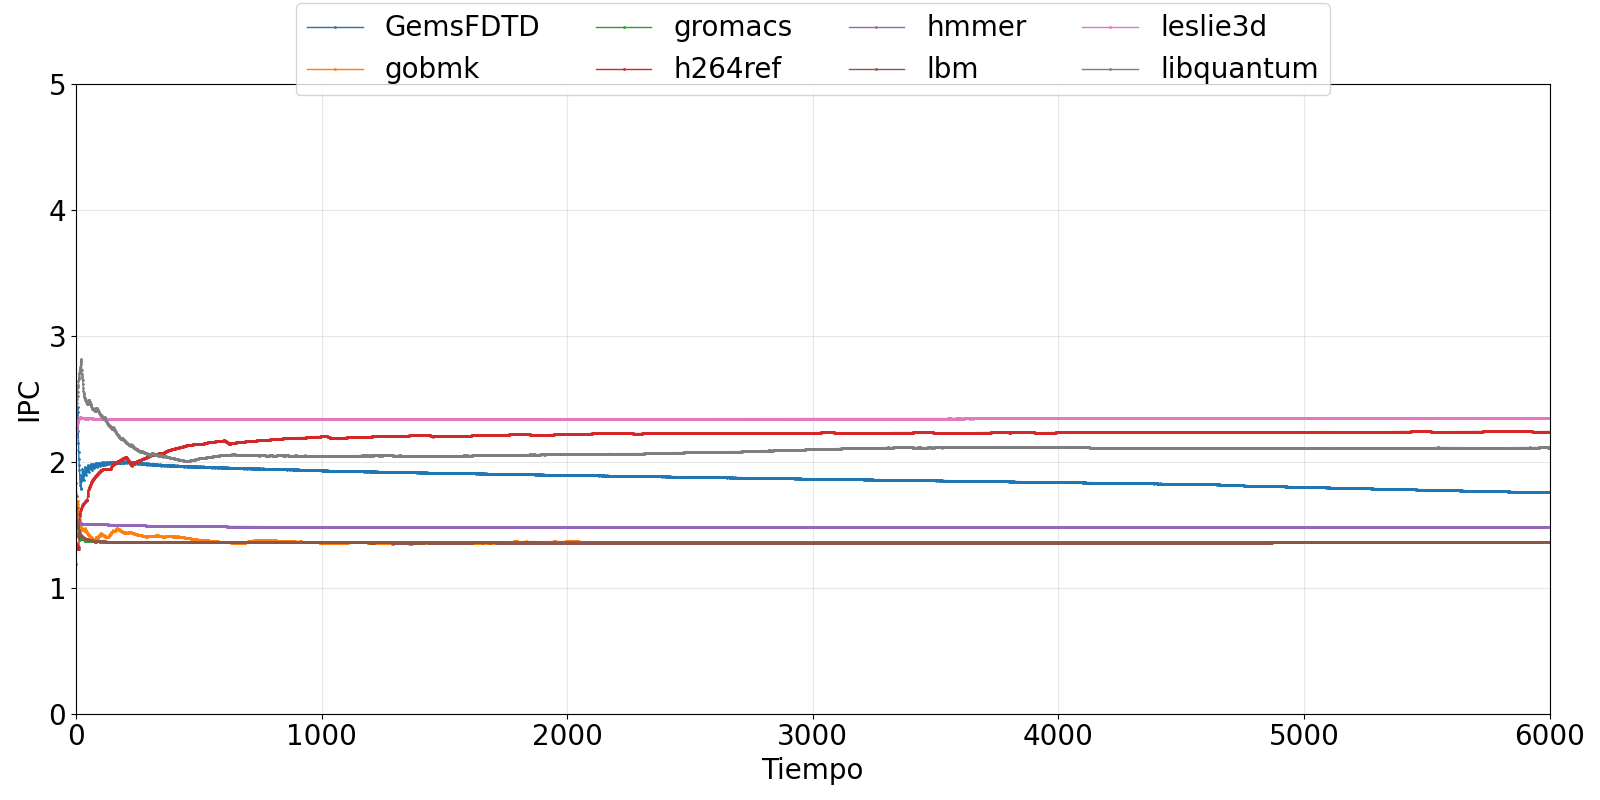
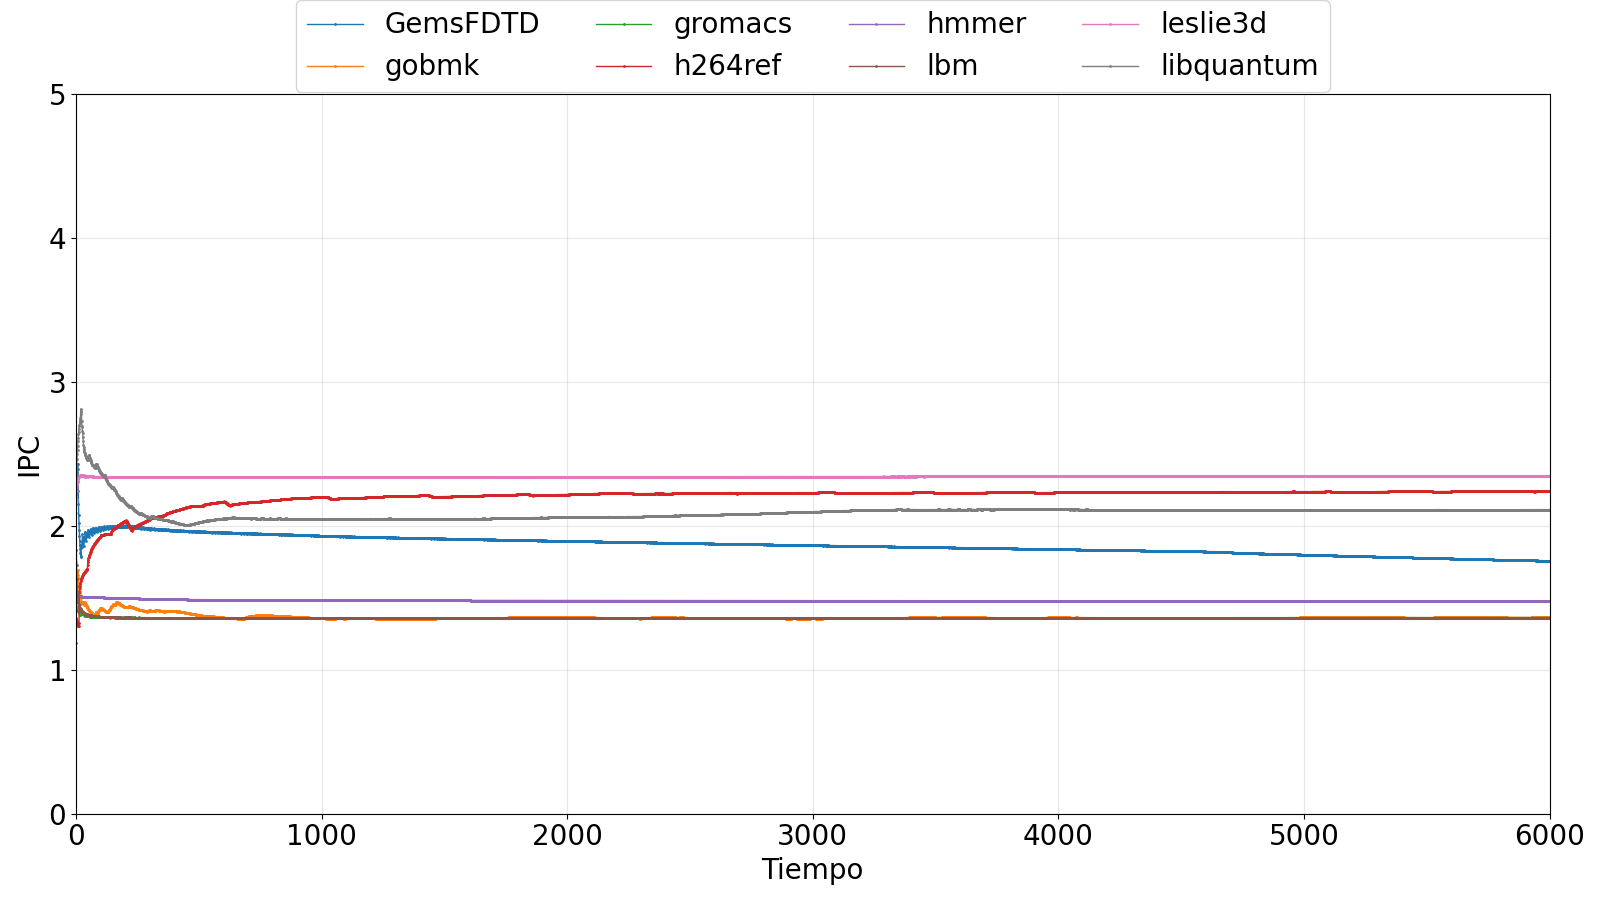
16:9

diff --git a/graficar.py b/graficar.py
@@ -55,7 +55,7 @@ def main():
             fin = min((grafica_num + 1) * 8, len(apps_list))
             apps_grupo = apps_list[inicio:fin]
             
-            plt.figure(figsize=(16, 8))
+            plt.figure(figsize=(16, 9))
             
             for app_name, ipc_values in apps_grupo:
                 tiempo = np.arange(len(ipc_values))
